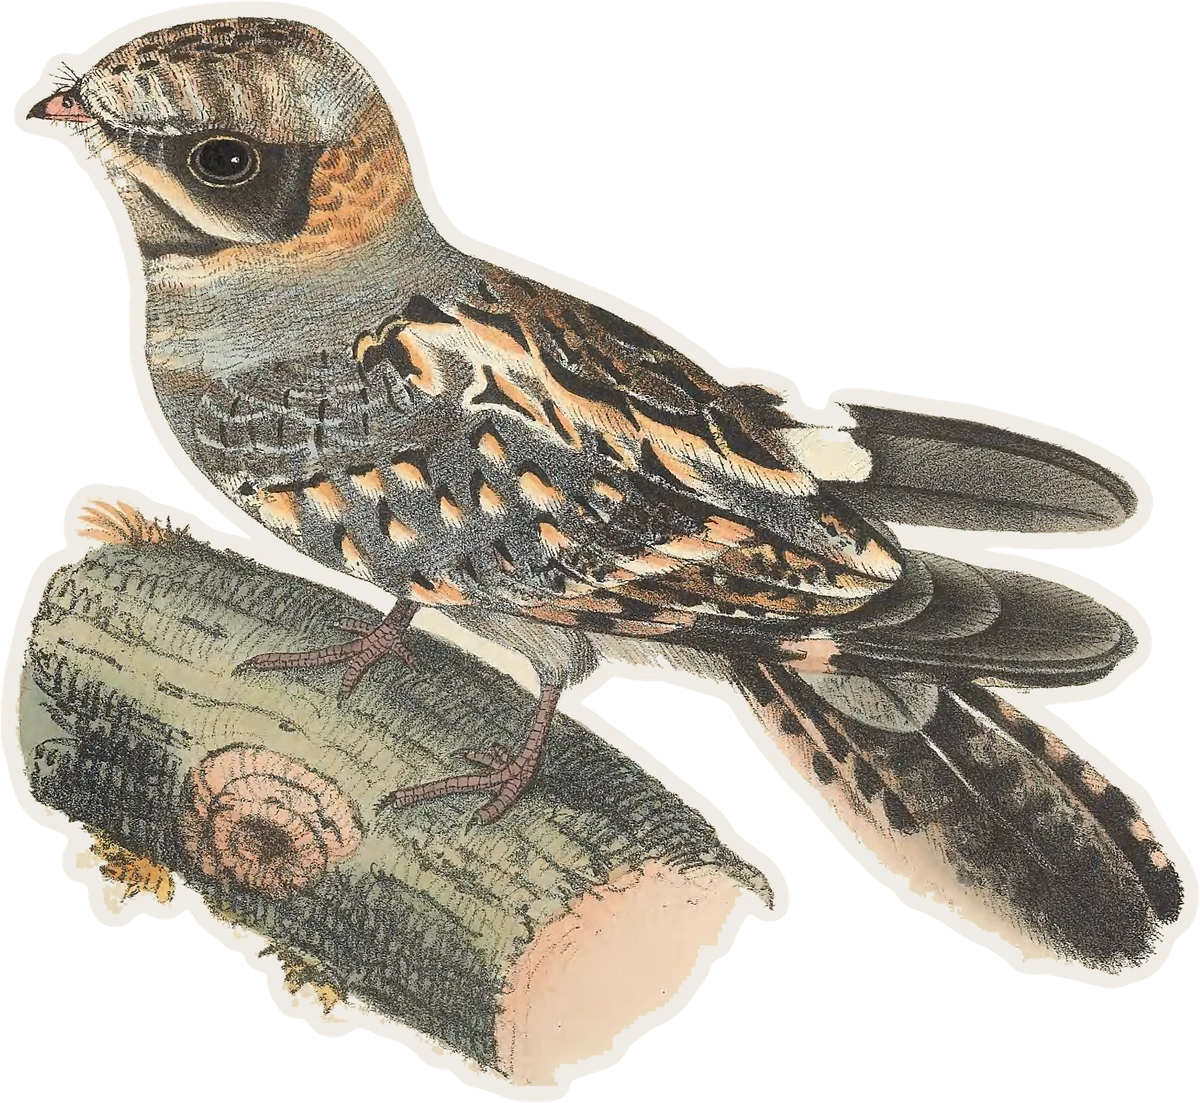
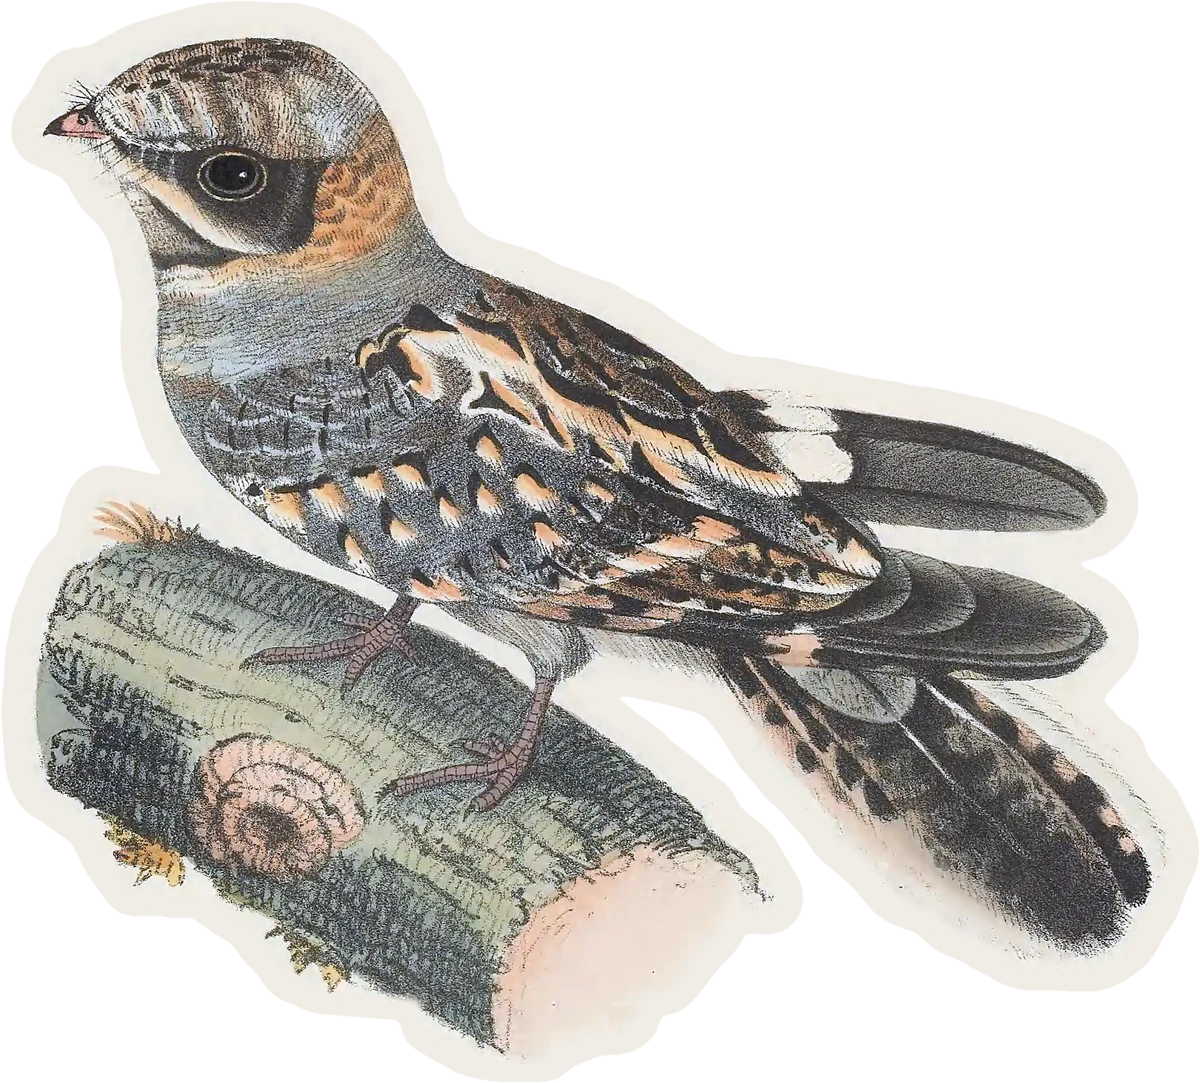
chore(assets): #383 recut the kingfisher and nightjar plates, add Caprimulgus indicus and drop Phylloscopus fuscatus

diff --git a/assets/artwork/classic/ATTRIBUTION.md b/assets/artwork/classic/ATTRIBUTION.md
@@ -249,5 +249,3 @@ CC BY 2.0. Manifest key: `jardine`.
 **Lilford** - *Coloured Figures of the Birds of the British Islands* issued by **Lord Lilford** (1885-1897), chromolithographs after **Archibald Thorburn** and others. American Museum of Natural History Library scans via the Biodiversity Heritage Library on the [Internet Archive](https://archive.org/details/colouredfigureso05lilf). Public domain. Manifest key: `lilford`.
 
 **Hardwicke** - *Illustrations of Indian Zoology* by **John Edward Gray** (1830-1835), from the collection of **Thomas Hardwicke**, lithographed by **Benjamin Waterhouse Hawkins** and printed by **W. Day**. Scans via the [Biodiversity Heritage Library](https://www.biodiversitylibrary.org/item/172892) and the [Internet Archive](https://archive.org/details/IllustrationsIn1Gray). Public domain. Manifest key: `hardwicke`.
-
-**Mützel** - plates drawn and lithographed by **Gustav Mützel** (1839-1893) for *Wissenschaftliche Resultate der von N. M. Przewalski nach Central-Asien unternommenen Reisen*, Zoologischer Theil, Band II: Vögel, by **Theodor Pleske** (1889), printed by **G. Böhm**, Berlin. Scans via the [Biodiversity Heritage Library](https://www.biodiversitylibrary.org/item/109413). Public domain (PD-old-70-expired; Mützel died 1893). Manifest key: `muetzel`.
